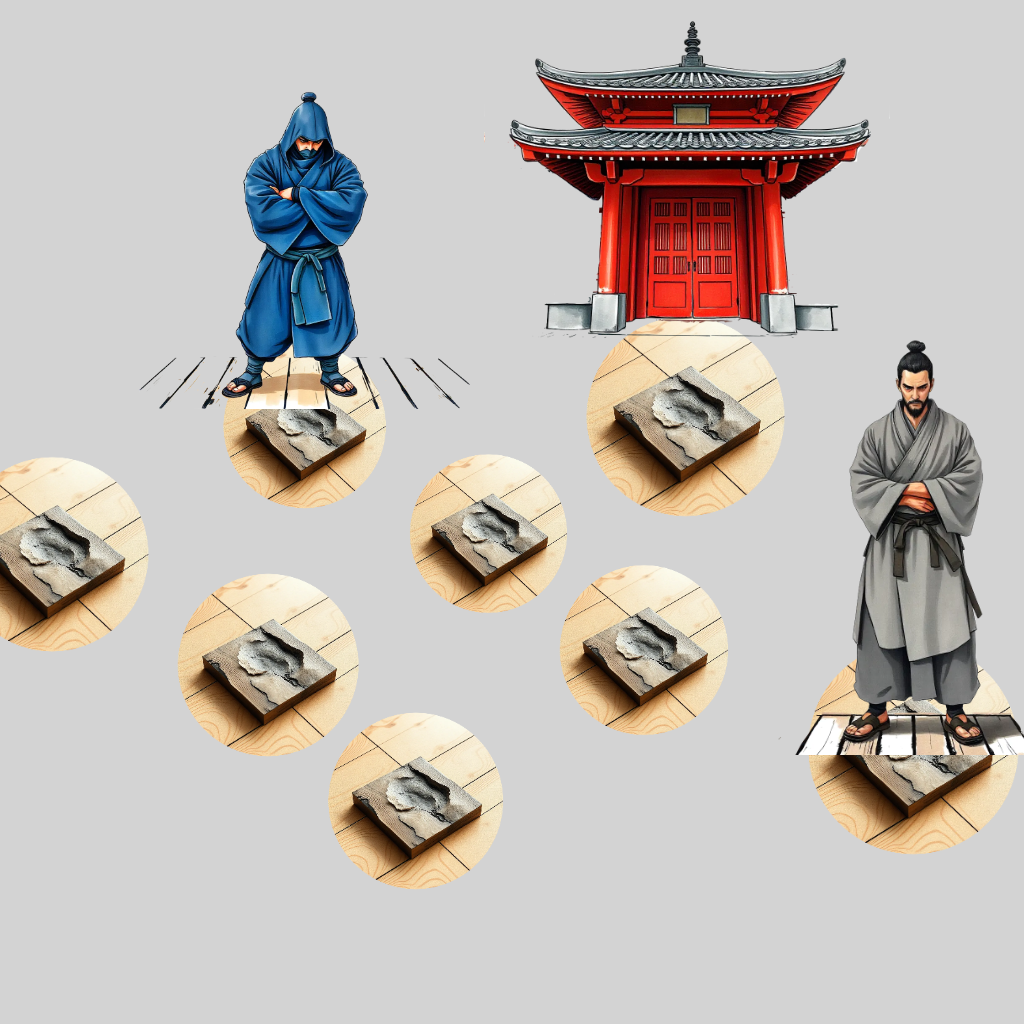
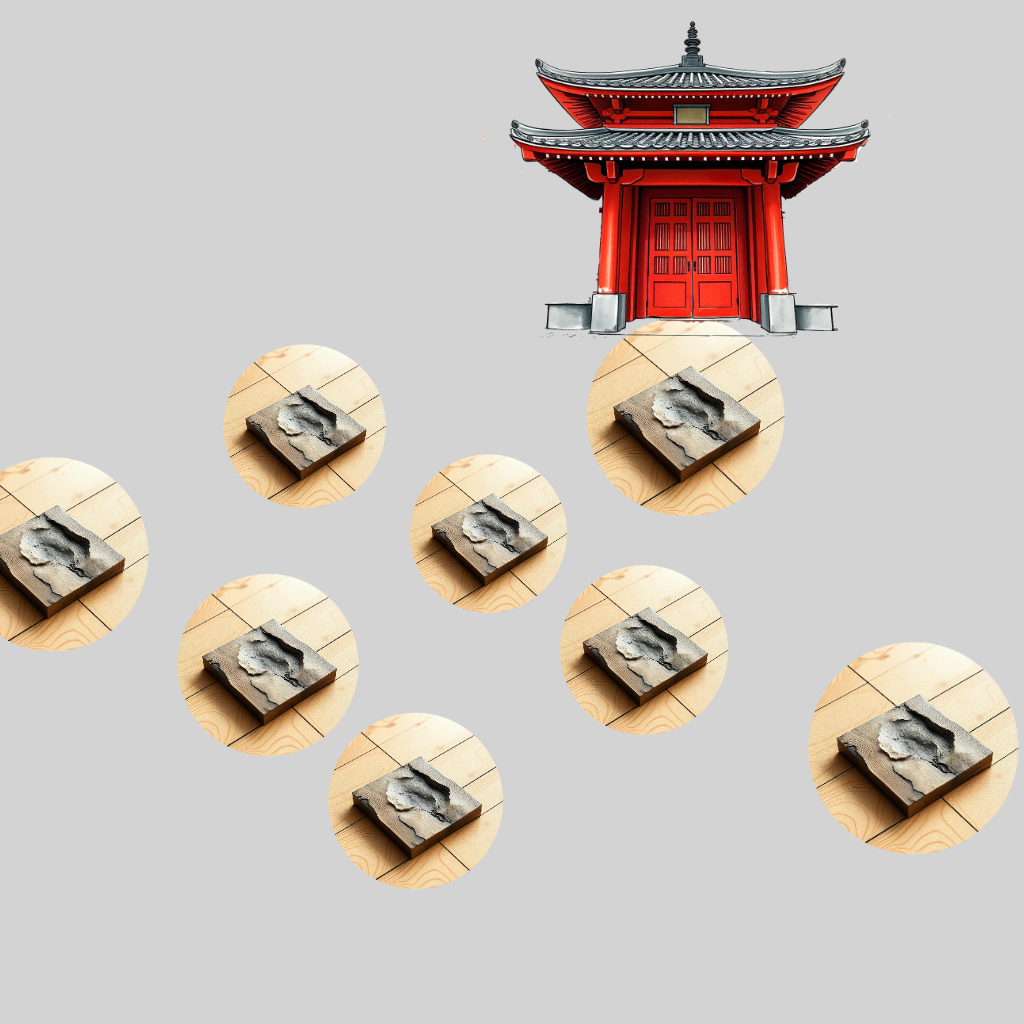
Previous tunings

Changed region(s): [[0.7812, 0.3125, 1.0, 0.75], [0.1875, 0.0938, 0.4062, 0.4062]]

diff --git a/docs/game/game.js b/docs/game/game.js
@@ -269,6 +269,11 @@ var gameSystem_prototype = {
         if ((!store) || (store.is_loaded == false)) {
             return; // no loaded yet
         }
+        if (store.art.is_unit) {
+            if (this.drawMode != "main") {
+                return;
+            }
+        }
         var img = null;
         if (this.drawMode == "mask") {
             img = store.ensureMaskBackground();
